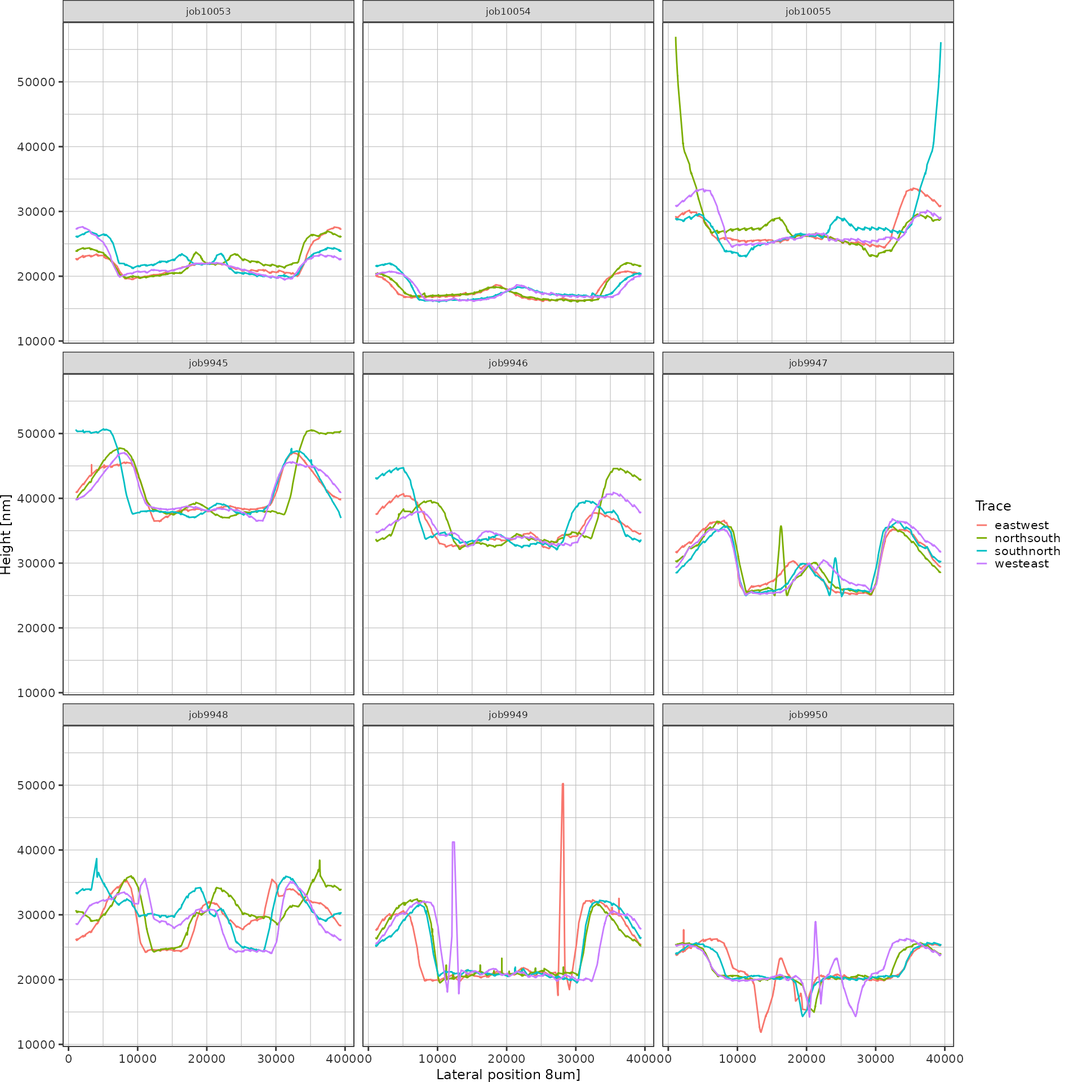
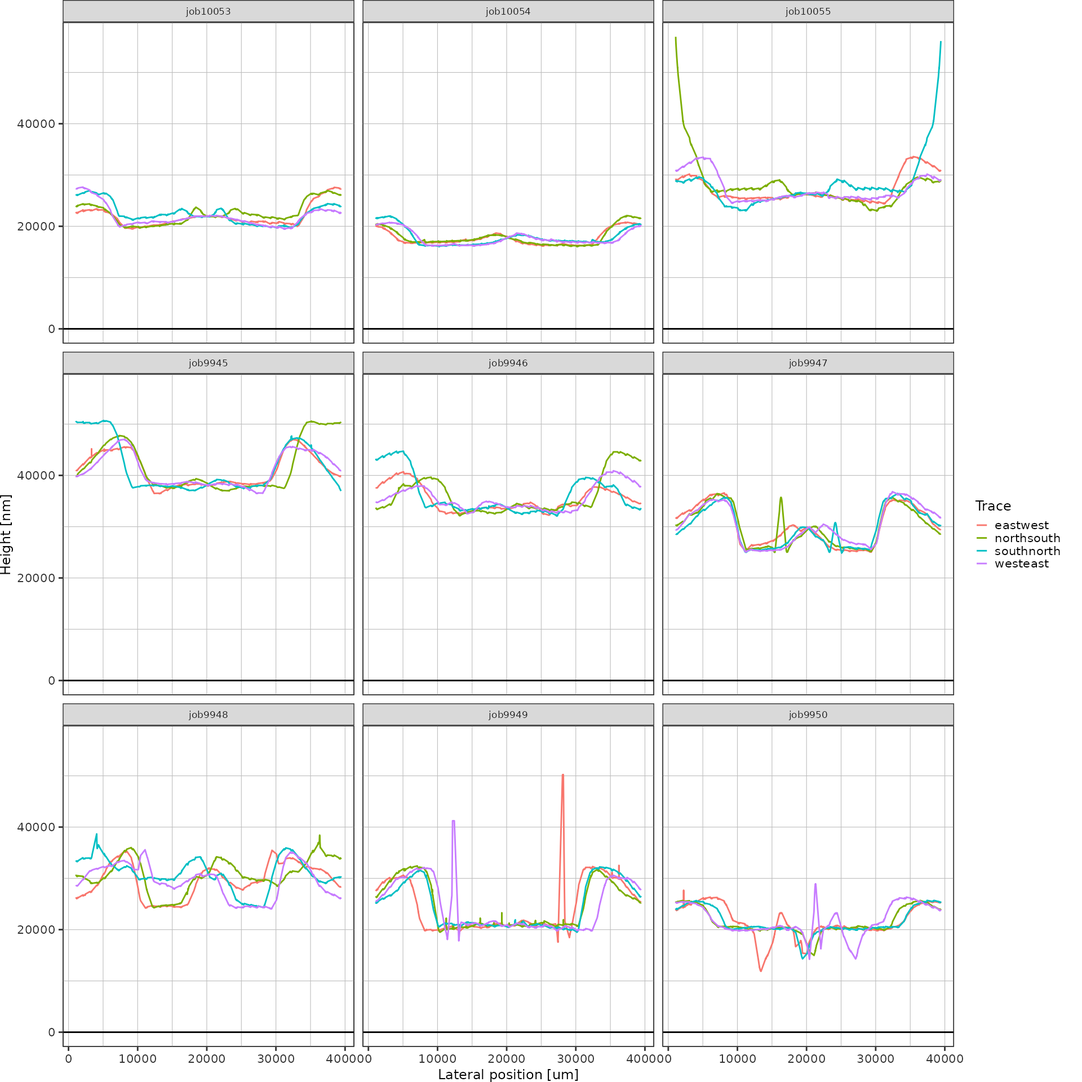
spincurve stuff almost complete

diff --git a/docs/articles/spincurves.html b/docs/articles/spincurves.html
@@ -105,6 +105,36 @@ reference level quite significantly, which necessitates a correction
 before data evalutation. Therefore, the cross structure exposed on the
 wafer includes repeated gaps in order to pick up the zero-level along
 the entire wafer.</p>
+<p>These are the wafer ids corresponding to a certain combination of
+spin time and spin speed:</p>
+<table class="table">
+<colgroup>
+<col width="23%">
+<col width="25%">
+<col width="25%">
+<col width="25%">
+</colgroup>
+<thead><tr class="header">
+<th>spin time / RPM</th>
+<th>3000</th>
+<th>4000</th>
+<th>5000</th>
+</tr></thead>
+<tbody>
+<tr class="odd">
+<td>30 s</td>
+<td>job9945, job9946</td>
+<td>job9947, job9948</td>
+<td>job9949, job9950</td>
+</tr>
+<tr class="even">
+<td>60 s</td>
+<td>job10055</td>
+<td>job10053</td>
+<td>job10054</td>
+</tr>
+</tbody>
+</table>
 <p>For each wafer, four traces were measured: top-to-bottom,
 left-to-right, bottom-to-top, and right-to-left (see figure). This
 results in duplicate measurements for all the structures.</p>
@@ -445,7 +475,7 @@ distance from the wafer center, as well as RPM and spin time.</p>
 known locations of valleys in the structure, and interpolating those
 values from the surrounding data:</p>
 <div class="sourceCode" id="cb19"><pre class="downlit sourceCode r">
-<code class="sourceCode R"><span class="co"># Geometrically, a valley is 500 µm wide. Set to a larger value than that to filter out overshoots in the signal at the edges</span>
+<code class="sourceCode R"><span class="co"># Geometrically, a valley is 500 um wide. Set to a larger value than that to filter out overshoots in the signal at the edges</span>
 <span class="va">interpolate_valleys</span> <span class="op">&lt;-</span> <span class="kw">function</span><span class="op">(</span><span class="va">profile</span>, <span class="va">width</span> <span class="op">=</span> <span class="fl">650</span><span class="op">)</span> <span class="op">{</span>
   
   <span class="co">## 1. remove gap data</span>
@@ -490,27 +520,155 @@ values from the surrounding data:</p>
 <div class="sourceCode" id="cb22"><pre class="downlit sourceCode r">
 <code class="sourceCode R"><span class="fu"><a href="https://ggplot2.tidyverse.org/reference/ggplot.html" class="external-link">ggplot</a></span><span class="op">(</span><span class="va">resultsInterpolated</span>, <span class="fu"><a href="https://ggplot2.tidyverse.org/reference/aes.html" class="external-link">aes</a></span><span class="op">(</span>x <span class="op">=</span> <span class="va">position</span>, y <span class="op">=</span> <span class="va">height</span>, color <span class="op">=</span> <span class="va">direction</span><span class="op">)</span><span class="op">)</span> <span class="op">+</span> 
   <span class="fu"><a href="https://ggplot2.tidyverse.org/reference/geom_path.html" class="external-link">geom_line</a></span><span class="op">(</span><span class="op">)</span> <span class="op">+</span> 
+  <span class="fu"><a href="https://ggplot2.tidyverse.org/reference/geom_abline.html" class="external-link">geom_hline</a></span><span class="op">(</span>yintercept <span class="op">=</span> <span class="fl">0</span><span class="op">)</span> <span class="op">+</span> 
   <span class="fu"><a href="https://ggplot2.tidyverse.org/reference/facet_wrap.html" class="external-link">facet_wrap</a></span><span class="op">(</span><span class="op">~</span> <span class="va">wafer</span><span class="op">)</span> <span class="op">+</span> 
   <span class="fu"><a href="../reference/theme_pretty.html">theme_pretty</a></span><span class="op">(</span><span class="op">)</span> <span class="op">+</span> 
-  <span class="fu"><a href="https://ggplot2.tidyverse.org/reference/labs.html" class="external-link">labs</a></span><span class="op">(</span>x <span class="op">=</span> <span class="st">"Lateral position 8um]"</span>,
+  <span class="fu"><a href="https://ggplot2.tidyverse.org/reference/labs.html" class="external-link">labs</a></span><span class="op">(</span>x <span class="op">=</span> <span class="st">"Lateral position [um]"</span>,
        y <span class="op">=</span> <span class="st">"Height [nm]"</span>,
        color <span class="op">=</span> <span class="st">"Trace"</span><span class="op">)</span></code></pre></div>
 <p><img src="spincurves_files/figure-html/unnamed-chunk-22-1.png" width="960"></p>
-<p>Function to zero-center the profiles and flip values with negative
-<code>position</code> coordinate so that the x-axis measures radial
-distance from wafer center.</p>
+<p>For each wafer, four traces were measured, of which pairs of two
+should be identical to each other: trace south-north measures the same
+structure as north-south, and the same is true for traces east-west and
+west-east. In above graph, this similarity is not obvious, because the
+measurement directions are reversed (west-east goes left-to-right and
+east-west the other way around). Therefore, two of the four traces have
+to be reversed, so that the only measurement directions are
+<em>top-to-bottom</em> and <em>left-to-right</em>. Furthermore, the data
+will be centered around zero, so that the origin is located in the wafer
+center.</p>
 <div class="sourceCode" id="cb23"><pre class="downlit sourceCode r">
-<code class="sourceCode R"><span class="va">center_and_mirror</span> <span class="op">&lt;-</span> <span class="kw">function</span><span class="op">(</span><span class="va">resultsCorrected</span><span class="op">)</span> <span class="op">{</span>
-  <span class="va">resultsCorrected</span> <span class="op"><a href="../reference/pipe.html">%&gt;%</a></span> 
+<code class="sourceCode R"><span class="va">mirror_and_center</span> <span class="op">&lt;-</span> <span class="kw">function</span><span class="op">(</span><span class="va">resultsInterpolated</span><span class="op">)</span> <span class="op">{</span>
+  <span class="va">resultsInterpolated</span> <span class="op"><a href="../reference/pipe.html">%&gt;%</a></span> 
     <span class="fu"><a href="https://dplyr.tidyverse.org/reference/group_by.html" class="external-link">group_by</a></span><span class="op">(</span><span class="va">wafer</span>, <span class="va">direction</span><span class="op">)</span> <span class="op"><a href="../reference/pipe.html">%&gt;%</a></span> 
     <span class="fu"><a href="https://dplyr.tidyverse.org/reference/arrange.html" class="external-link">arrange</a></span><span class="op">(</span><span class="va">position</span>, .by_group <span class="op">=</span> <span class="cn">TRUE</span><span class="op">)</span> <span class="op"><a href="../reference/pipe.html">%&gt;%</a></span> 
-    <span class="fu"><a href="https://dplyr.tidyverse.org/reference/mutate.html" class="external-link">mutate</a></span><span class="op">(</span>height <span class="op">=</span> <span class="fu"><a href="https://dplyr.tidyverse.org/reference/case_when.html" class="external-link">case_when</a></span><span class="op">(</span><span class="va">direction</span> <span class="op"><a href="https://rdrr.io/r/base/match.html" class="external-link">%in%</a></span> <span class="fu"><a href="https://rdrr.io/r/base/c.html" class="external-link">c</a></span><span class="op">(</span><span class="st">"southnorth"</span>, <span class="st">"westeast"</span><span class="op">)</span> <span class="op">~</span> <span class="fu"><a href="https://rdrr.io/r/base/rev.html" class="external-link">rev</a></span><span class="op">(</span><span class="va">height</span><span class="op">)</span>,
+    <span class="fu"><a href="https://dplyr.tidyverse.org/reference/mutate.html" class="external-link">mutate</a></span><span class="op">(</span>height <span class="op">=</span> <span class="fu"><a href="https://dplyr.tidyverse.org/reference/case_when.html" class="external-link">case_when</a></span><span class="op">(</span><span class="va">direction</span> <span class="op"><a href="https://rdrr.io/r/base/match.html" class="external-link">%in%</a></span> <span class="fu"><a href="https://rdrr.io/r/base/c.html" class="external-link">c</a></span><span class="op">(</span><span class="st">"southnorth"</span>, <span class="st">"eastwest"</span><span class="op">)</span> <span class="op">~</span> <span class="fu"><a href="https://rdrr.io/r/base/rev.html" class="external-link">rev</a></span><span class="op">(</span><span class="va">height</span><span class="op">)</span>,
                                         <span class="cn">TRUE</span> <span class="op">~</span> <span class="va">height</span><span class="op">)</span><span class="op">)</span> <span class="op"><a href="../reference/pipe.html">%&gt;%</a></span> 
     <span class="co"># center around zero</span>
     <span class="fu"><a href="https://dplyr.tidyverse.org/reference/mutate.html" class="external-link">mutate</a></span><span class="op">(</span>position <span class="op">=</span> <span class="va">position</span> <span class="op">-</span> <span class="fl">0.5</span> <span class="op">*</span> <span class="fu"><a href="https://rdrr.io/r/base/Extremes.html" class="external-link">max</a></span><span class="op">(</span><span class="va">position</span><span class="op">)</span><span class="op">)</span> <span class="op"><a href="../reference/pipe.html">%&gt;%</a></span> 
-    <span class="fu"><a href="https://dplyr.tidyverse.org/reference/group_by.html" class="external-link">ungroup</a></span><span class="op">(</span><span class="op">)</span>
-  <span class="kw"><a href="https://rdrr.io/r/base/function.html" class="external-link">return</a></span><span class="op">(</span><span class="va">res</span><span class="op">)</span>
+    <span class="fu"><a href="https://dplyr.tidyverse.org/reference/group_by.html" class="external-link">ungroup</a></span><span class="op">(</span><span class="op">)</span> <span class="op"><a href="../reference/pipe.html">%&gt;%</a></span> 
+    <span class="kw"><a href="https://rdrr.io/r/base/function.html" class="external-link">return</a></span><span class="op">(</span><span class="op">)</span>
 <span class="op">}</span></code></pre></div>
+<p>Now there is a lot more similarity going on in the height profiles.
+Of the four traces, those in horizontal and vertical direction,
+respectively, should be overlapping to a large degree.</p>
+<div class="sourceCode" id="cb24"><pre class="downlit sourceCode r">
+<code class="sourceCode R"><span class="va">heights</span> <span class="op">&lt;-</span> <span class="va">resultsInterpolated</span> <span class="op"><a href="../reference/pipe.html">%&gt;%</a></span> 
+  <span class="fu">mirror_and_center</span><span class="op">(</span><span class="op">)</span>
+
+<span class="fu"><a href="https://ggplot2.tidyverse.org/reference/ggplot.html" class="external-link">ggplot</a></span><span class="op">(</span><span class="va">heights</span>, <span class="fu"><a href="https://ggplot2.tidyverse.org/reference/aes.html" class="external-link">aes</a></span><span class="op">(</span>x <span class="op">=</span> <span class="va">position</span>, y <span class="op">=</span> <span class="va">height</span>, color <span class="op">=</span> <span class="va">direction</span><span class="op">)</span><span class="op">)</span> <span class="op">+</span> 
+  <span class="fu"><a href="https://ggplot2.tidyverse.org/reference/geom_path.html" class="external-link">geom_line</a></span><span class="op">(</span><span class="op">)</span> <span class="op">+</span> 
+  <span class="fu"><a href="https://ggplot2.tidyverse.org/reference/geom_abline.html" class="external-link">geom_hline</a></span><span class="op">(</span>yintercept <span class="op">=</span> <span class="fl">0</span><span class="op">)</span> <span class="op">+</span> 
+  <span class="fu"><a href="https://ggplot2.tidyverse.org/reference/facet_wrap.html" class="external-link">facet_wrap</a></span><span class="op">(</span><span class="op">~</span> <span class="va">wafer</span><span class="op">)</span> <span class="op">+</span> 
+  <span class="fu"><a href="../reference/theme_pretty.html">theme_pretty</a></span><span class="op">(</span><span class="op">)</span> <span class="op">+</span> 
+  <span class="fu"><a href="https://ggplot2.tidyverse.org/reference/labs.html" class="external-link">labs</a></span><span class="op">(</span>x <span class="op">=</span> <span class="st">"Lateral position [um]"</span>,
+       y <span class="op">=</span> <span class="st">"Height [nm]"</span>,
+       color <span class="op">=</span> <span class="st">"Trace"</span><span class="op">)</span></code></pre></div>
+<p><img src="spincurves_files/figure-html/unnamed-chunk-24-1.png" width="960"></p>
+<p>For a single wafer:</p>
+<div class="sourceCode" id="cb25"><pre class="downlit sourceCode r">
+<code class="sourceCode R"><span class="va">heights</span> <span class="op"><a href="../reference/pipe.html">%&gt;%</a></span> 
+  <span class="fu"><a href="https://dplyr.tidyverse.org/reference/filter.html" class="external-link">filter</a></span><span class="op">(</span><span class="va">wafer</span> <span class="op">==</span> <span class="st">"job9946"</span><span class="op">)</span> <span class="op"><a href="../reference/pipe.html">%&gt;%</a></span> 
+  <span class="fu"><a href="https://ggplot2.tidyverse.org/reference/ggplot.html" class="external-link">ggplot</a></span><span class="op">(</span><span class="fu"><a href="https://ggplot2.tidyverse.org/reference/aes.html" class="external-link">aes</a></span><span class="op">(</span>x <span class="op">=</span> <span class="va">position</span>, y <span class="op">=</span> <span class="va">height</span>, color <span class="op">=</span> <span class="va">direction</span><span class="op">)</span><span class="op">)</span> <span class="op">+</span> 
+  <span class="fu"><a href="https://ggplot2.tidyverse.org/reference/geom_path.html" class="external-link">geom_line</a></span><span class="op">(</span><span class="op">)</span> <span class="op">+</span> 
+  <span class="fu"><a href="https://ggplot2.tidyverse.org/reference/geom_abline.html" class="external-link">geom_hline</a></span><span class="op">(</span>yintercept <span class="op">=</span> <span class="fl">0</span><span class="op">)</span> <span class="op">+</span> 
+  <span class="fu"><a href="../reference/theme_pretty.html">theme_pretty</a></span><span class="op">(</span><span class="op">)</span> <span class="op">+</span> 
+  <span class="fu"><a href="https://ggplot2.tidyverse.org/reference/labs.html" class="external-link">labs</a></span><span class="op">(</span>x <span class="op">=</span> <span class="st">"Position from wafer center [um]"</span>,
+       y <span class="op">=</span> <span class="st">"Height [nm]"</span>,
+       color <span class="op">=</span> <span class="st">"Trace direction"</span><span class="op">)</span></code></pre></div>
+<p><img src="spincurves_files/figure-html/unnamed-chunk-25-1.png" width="700"></p>
+<p>The duplicate measurements of the horizontal and vertical structure
+will be averaged.</p>
+<div class="sourceCode" id="cb26"><pre class="downlit sourceCode r">
+<code class="sourceCode R"><span class="va">average_duplicate_traces</span> <span class="op">&lt;-</span> <span class="kw">function</span><span class="op">(</span><span class="va">heights</span><span class="op">)</span> <span class="op">{</span>
+  <span class="va">heights</span> <span class="op"><a href="../reference/pipe.html">%&gt;%</a></span> 
+    <span class="fu"><a href="https://dplyr.tidyverse.org/reference/mutate.html" class="external-link">mutate</a></span><span class="op">(</span>position <span class="op">=</span> <span class="fu"><a href="https://rdrr.io/r/base/Round.html" class="external-link">round</a></span><span class="op">(</span><span class="va">position</span><span class="op">)</span><span class="op">)</span> <span class="op"><a href="../reference/pipe.html">%&gt;%</a></span> 
+    <span class="fu"><a href="https://dplyr.tidyverse.org/reference/group_by.html" class="external-link">group_by</a></span><span class="op">(</span><span class="va">rpm</span>, <span class="va">wafer</span>, <span class="va">spintime</span>, <span class="va">orientation</span>, <span class="va">position</span><span class="op">)</span> <span class="op"><a href="../reference/pipe.html">%&gt;%</a></span> 
+    <span class="fu"><a href="https://dplyr.tidyverse.org/reference/summarise.html" class="external-link">summarise</a></span><span class="op">(</span>height <span class="op">=</span> <span class="fu"><a href="https://rdrr.io/r/base/Round.html" class="external-link">round</a></span><span class="op">(</span><span class="fu"><a href="https://rdrr.io/r/base/mean.html" class="external-link">mean</a></span><span class="op">(</span><span class="va">height</span><span class="op">)</span><span class="op">)</span>,
+              height_sd <span class="op">=</span> <span class="fu"><a href="https://rdrr.io/r/stats/sd.html" class="external-link">sd</a></span><span class="op">(</span><span class="va">height</span><span class="op">)</span>,
+              .groups <span class="op">=</span> <span class="st">"drop"</span><span class="op">)</span> <span class="op"><a href="../reference/pipe.html">%&gt;%</a></span> 
+    <span class="kw"><a href="https://rdrr.io/r/base/function.html" class="external-link">return</a></span><span class="op">(</span><span class="op">)</span>
+<span class="op">}</span></code></pre></div>
+<div class="sourceCode" id="cb27"><pre class="downlit sourceCode r">
+<code class="sourceCode R"><span class="va">heights</span> <span class="op">&lt;-</span> <span class="va">heights</span> <span class="op"><a href="../reference/pipe.html">%&gt;%</a></span> 
+  <span class="fu">average_duplicate_traces</span><span class="op">(</span><span class="op">)</span>
+
+<span class="va">heights</span> <span class="op"><a href="../reference/pipe.html">%&gt;%</a></span> 
+  <span class="fu"><a href="https://ggplot2.tidyverse.org/reference/ggplot.html" class="external-link">ggplot</a></span><span class="op">(</span><span class="fu"><a href="https://ggplot2.tidyverse.org/reference/aes.html" class="external-link">aes</a></span><span class="op">(</span>x <span class="op">=</span> <span class="va">position</span>, y <span class="op">=</span> <span class="va">height</span>, color <span class="op">=</span> <span class="va">orientation</span><span class="op">)</span><span class="op">)</span> <span class="op">+</span> 
+  <span class="fu"><a href="https://ggplot2.tidyverse.org/reference/geom_path.html" class="external-link">geom_line</a></span><span class="op">(</span><span class="op">)</span> <span class="op">+</span> 
+  <span class="fu"><a href="https://ggplot2.tidyverse.org/reference/geom_abline.html" class="external-link">geom_hline</a></span><span class="op">(</span>yintercept <span class="op">=</span> <span class="fl">0</span><span class="op">)</span> <span class="op">+</span> 
+  <span class="fu"><a href="../reference/theme_pretty.html">theme_pretty</a></span><span class="op">(</span><span class="op">)</span> <span class="op">+</span> 
+  <span class="fu"><a href="https://ggplot2.tidyverse.org/reference/labs.html" class="external-link">labs</a></span><span class="op">(</span>x <span class="op">=</span> <span class="st">"Position from wafer center [um]"</span>,
+       y <span class="op">=</span> <span class="st">"Height [nm]"</span>,
+       color <span class="op">=</span> <span class="st">"Trace direction"</span><span class="op">)</span> <span class="op">+</span> 
+  <span class="fu"><a href="https://ggplot2.tidyverse.org/reference/facet_wrap.html" class="external-link">facet_wrap</a></span><span class="op">(</span><span class="op">~</span> <span class="va">wafer</span><span class="op">)</span></code></pre></div>
+<p><img src="spincurves_files/figure-html/unnamed-chunk-27-1.png" width="960"></p>
+<p>Finally, since the spin coating process should be radially
+symmetrical more or less (ideally), I want to describe the height
+profile as a function of the radial distance from the wafer center. To
+that end, data with negative position coordinate will be flipped over
+into the positive range.</p>
+<p><img src="images/005_spincurve_cross_pattern_quadrants.png" alt="Spincurve cross pattern quadrants"> { width=50% }</p>
+<div class="sourceCode" id="cb28"><pre class="downlit sourceCode r">
+<code class="sourceCode R"><span class="va">make_radial</span> <span class="op">&lt;-</span> <span class="kw">function</span><span class="op">(</span><span class="va">heights</span><span class="op">)</span> <span class="op">{</span>
+  <span class="va">heights</span> <span class="op"><a href="../reference/pipe.html">%&gt;%</a></span> 
+    <span class="fu"><a href="https://dplyr.tidyverse.org/reference/mutate.html" class="external-link">mutate</a></span><span class="op">(</span>quadrant <span class="op">=</span> <span class="fu"><a href="https://dplyr.tidyverse.org/reference/case_when.html" class="external-link">case_when</a></span><span class="op">(</span><span class="va">orientation</span> <span class="op">==</span> <span class="st">"vertical"</span> <span class="op">&amp;</span> <span class="va">position</span> <span class="op">&lt;</span> <span class="fl">0</span> <span class="op">~</span> <span class="st">"south"</span>,
+                                <span class="va">orientation</span> <span class="op">==</span> <span class="st">"vertical"</span> <span class="op">&amp;</span> <span class="va">position</span> <span class="op">&gt;=</span> <span class="fl">0</span> <span class="op">~</span> <span class="st">"north"</span>,
+                                <span class="va">orientation</span> <span class="op">==</span> <span class="st">"horizontal"</span> <span class="op">&amp;</span> <span class="va">position</span> <span class="op">&lt;</span> <span class="fl">0</span> <span class="op">~</span> <span class="st">"west"</span>,
+                                <span class="va">orientation</span> <span class="op">==</span> <span class="st">"horizontal"</span> <span class="op">&amp;</span> <span class="va">position</span> <span class="op">&gt;=</span> <span class="fl">0</span> <span class="op">~</span> <span class="st">"east"</span>,
+                                <span class="cn">TRUE</span> <span class="op">~</span> <span class="st">"ERROR"</span><span class="op">)</span><span class="op">)</span> <span class="op"><a href="../reference/pipe.html">%&gt;%</a></span> 
+    <span class="co"># flip values with negative position coordinate into positive range</span>
+    <span class="fu"><a href="https://dplyr.tidyverse.org/reference/mutate.html" class="external-link">mutate</a></span><span class="op">(</span>position <span class="op">=</span> <span class="fu"><a href="https://dplyr.tidyverse.org/reference/case_when.html" class="external-link">case_when</a></span><span class="op">(</span><span class="va">position</span> <span class="op">&lt;</span> <span class="fl">0</span> <span class="op">~</span> <span class="op">-</span><span class="va">position</span>,
+                                <span class="cn">TRUE</span> <span class="op">~</span> <span class="va">position</span><span class="op">)</span><span class="op">)</span> <span class="op"><a href="../reference/pipe.html">%&gt;%</a></span> 
+    <span class="fu"><a href="https://dplyr.tidyverse.org/reference/group_by.html" class="external-link">ungroup</a></span><span class="op">(</span><span class="op">)</span> <span class="op"><a href="../reference/pipe.html">%&gt;%</a></span> 
+    <span class="kw"><a href="https://rdrr.io/r/base/function.html" class="external-link">return</a></span><span class="op">(</span><span class="op">)</span>
+<span class="op">}</span>
+
+<span class="va">heightsRadial</span> <span class="op">&lt;-</span> <span class="va">heights</span> <span class="op"><a href="../reference/pipe.html">%&gt;%</a></span> 
+  <span class="fu">make_radial</span><span class="op">(</span><span class="op">)</span></code></pre></div>
+<div class="sourceCode" id="cb29"><pre class="downlit sourceCode r">
+<code class="sourceCode R"><span class="fu"><a href="https://ggplot2.tidyverse.org/reference/ggplot.html" class="external-link">ggplot</a></span><span class="op">(</span><span class="va">heightsRadial</span>, <span class="fu"><a href="https://ggplot2.tidyverse.org/reference/aes.html" class="external-link">aes</a></span><span class="op">(</span>x <span class="op">=</span> <span class="va">position</span>, y <span class="op">=</span> <span class="va">height</span>, color <span class="op">=</span> <span class="va">quadrant</span><span class="op">)</span><span class="op">)</span> <span class="op">+</span> 
+  <span class="fu"><a href="https://ggplot2.tidyverse.org/reference/geom_path.html" class="external-link">geom_line</a></span><span class="op">(</span><span class="op">)</span> <span class="op">+</span> 
+  <span class="fu"><a href="https://ggplot2.tidyverse.org/reference/geom_abline.html" class="external-link">geom_hline</a></span><span class="op">(</span>yintercept <span class="op">=</span> <span class="fl">0</span><span class="op">)</span> <span class="op">+</span> 
+  <span class="fu"><a href="https://ggplot2.tidyverse.org/reference/facet_wrap.html" class="external-link">facet_wrap</a></span><span class="op">(</span><span class="op">~</span> <span class="va">wafer</span><span class="op">)</span> <span class="op">+</span> 
+  <span class="fu"><a href="../reference/theme_pretty.html">theme_pretty</a></span><span class="op">(</span><span class="op">)</span> <span class="op">+</span> 
+  <span class="fu"><a href="https://ggplot2.tidyverse.org/reference/labs.html" class="external-link">labs</a></span><span class="op">(</span>x <span class="op">=</span> <span class="st">"Distance from wafer center [um]"</span>,
+       y <span class="op">=</span> <span class="st">"Height [nm]"</span>,
+       color <span class="op">=</span> <span class="st">"Quadrant"</span><span class="op">)</span></code></pre></div>
+<p><img src="spincurves_files/figure-html/unnamed-chunk-29-1.png" width="960"></p>
+<p>Plot by RPM and spintime:</p>
+<div class="sourceCode" id="cb30"><pre class="downlit sourceCode r">
+<code class="sourceCode R"><span class="kw">for</span> <span class="op">(</span><span class="va">r</span> <span class="kw">in</span> <span class="fu"><a href="https://rdrr.io/r/base/unique.html" class="external-link">unique</a></span><span class="op">(</span><span class="va">heightsRadial</span><span class="op">$</span><span class="va">rpm</span><span class="op">)</span><span class="op">)</span> <span class="op">{</span>
+  <span class="va">p</span> <span class="op">&lt;-</span> <span class="va">heightsRadial</span> <span class="op"><a href="../reference/pipe.html">%&gt;%</a></span> 
+    <span class="fu"><a href="https://dplyr.tidyverse.org/reference/filter.html" class="external-link">filter</a></span><span class="op">(</span><span class="va">rpm</span> <span class="op">==</span> <span class="va">r</span><span class="op">)</span> <span class="op"><a href="../reference/pipe.html">%&gt;%</a></span> 
+    <span class="fu"><a href="https://ggplot2.tidyverse.org/reference/ggplot.html" class="external-link">ggplot</a></span><span class="op">(</span><span class="fu"><a href="https://ggplot2.tidyverse.org/reference/aes.html" class="external-link">aes</a></span><span class="op">(</span>x <span class="op">=</span> <span class="va">position</span><span class="op">*</span><span class="fl">1e-3</span>, y <span class="op">=</span> <span class="va">height</span><span class="op">*</span><span class="fl">1e-3</span>, color <span class="op">=</span> <span class="va">wafer</span><span class="op">)</span><span class="op">)</span> <span class="op">+</span> 
+    <span class="fu"><a href="https://ggplot2.tidyverse.org/reference/geom_abline.html" class="external-link">geom_vline</a></span><span class="op">(</span>xintercept <span class="op">=</span> <span class="fl">25.4</span>, linetype <span class="op">=</span> <span class="st">"dashed"</span><span class="op">)</span> <span class="op">+</span>
+    <span class="fu"><a href="https://ggplot2.tidyverse.org/reference/geom_path.html" class="external-link">geom_line</a></span><span class="op">(</span><span class="fu"><a href="https://ggplot2.tidyverse.org/reference/aes.html" class="external-link">aes</a></span><span class="op">(</span>group <span class="op">=</span> <span class="fu"><a href="https://rdrr.io/r/base/interaction.html" class="external-link">interaction</a></span><span class="op">(</span><span class="va">wafer</span>, <span class="va">quadrant</span><span class="op">)</span>, linetype <span class="op">=</span> <span class="fu"><a href="https://rdrr.io/r/base/factor.html" class="external-link">factor</a></span><span class="op">(</span><span class="va">spintime</span><span class="op">)</span><span class="op">)</span>, size <span class="op">=</span> <span class="fl">0.5</span>, alpha <span class="op">=</span> <span class="fl">0.7</span><span class="op">)</span> <span class="op">+</span> 
+    <span class="fu"><a href="https://ggplot2.tidyverse.org/reference/labs.html" class="external-link">labs</a></span><span class="op">(</span>x <span class="op">=</span> <span class="st">"Distance from wafer center [mm]"</span>,
+         y <span class="op">=</span> <span class="st">"Coating thickness [um]"</span>,
+         linetype <span class="op">=</span> <span class="st">"Spintime [s]"</span>,
+         color <span class="op">=</span> <span class="st">"Wafer id"</span>,
+         title <span class="op">=</span> <span class="fu"><a href="https://rdrr.io/r/base/paste.html" class="external-link">paste</a></span><span class="op">(</span><span class="va">r</span>, <span class="st">"RPM"</span><span class="op">)</span><span class="op">)</span> <span class="op">+</span> 
+    <span class="fu"><a href="https://ggplot2.tidyverse.org/reference/scale_viridis.html" class="external-link">scale_color_viridis_d</a></span><span class="op">(</span><span class="op">)</span> <span class="op">+</span> 
+    <span class="fu"><a href="../reference/theme_pretty.html">theme_pretty</a></span><span class="op">(</span><span class="op">)</span> <span class="op">+</span> 
+    <span class="fu"><a href="https://ggplot2.tidyverse.org/reference/lims.html" class="external-link">ylim</a></span><span class="op">(</span><span class="fu"><a href="https://rdrr.io/r/base/c.html" class="external-link">c</a></span><span class="op">(</span><span class="fl">0</span>, <span class="fl">60</span><span class="op">)</span><span class="op">)</span>
+  <span class="fu"><a href="https://rdrr.io/r/base/print.html" class="external-link">print</a></span><span class="op">(</span><span class="va">p</span><span class="op">)</span>
+<span class="op">}</span></code></pre></div>
+<p><img src="spincurves_files/figure-html/unnamed-chunk-30-1.png" width="700"><img src="spincurves_files/figure-html/unnamed-chunk-30-2.png" width="700"><img src="spincurves_files/figure-html/unnamed-chunk-30-3.png" width="700"></p>
+</div>
+<div class="section level2">
+<h2 id="conclusions">conclusions<a class="anchor" aria-label="anchor" href="#conclusions"></a>
+</h2>
+<ul>
+<li>spin coating results in circular inner region of uniform thickness
+and outer rim with thicker coating</li>
+<li>spinning for longer time (60 instead of 30 s) seems to expand the
+inner region</li>
+<li>higher variation in thickness across wafers for lower RPM (3000,
+4000)</li>
+<li>place chip designs radially symmetrical on the wafer to increase
+uniformness</li>
+</ul>
 </div>
 <div class="section level2 unnumbered">
 <h2 class="unnumbered" id="references">references<a class="anchor" aria-label="anchor" href="#references"></a>
